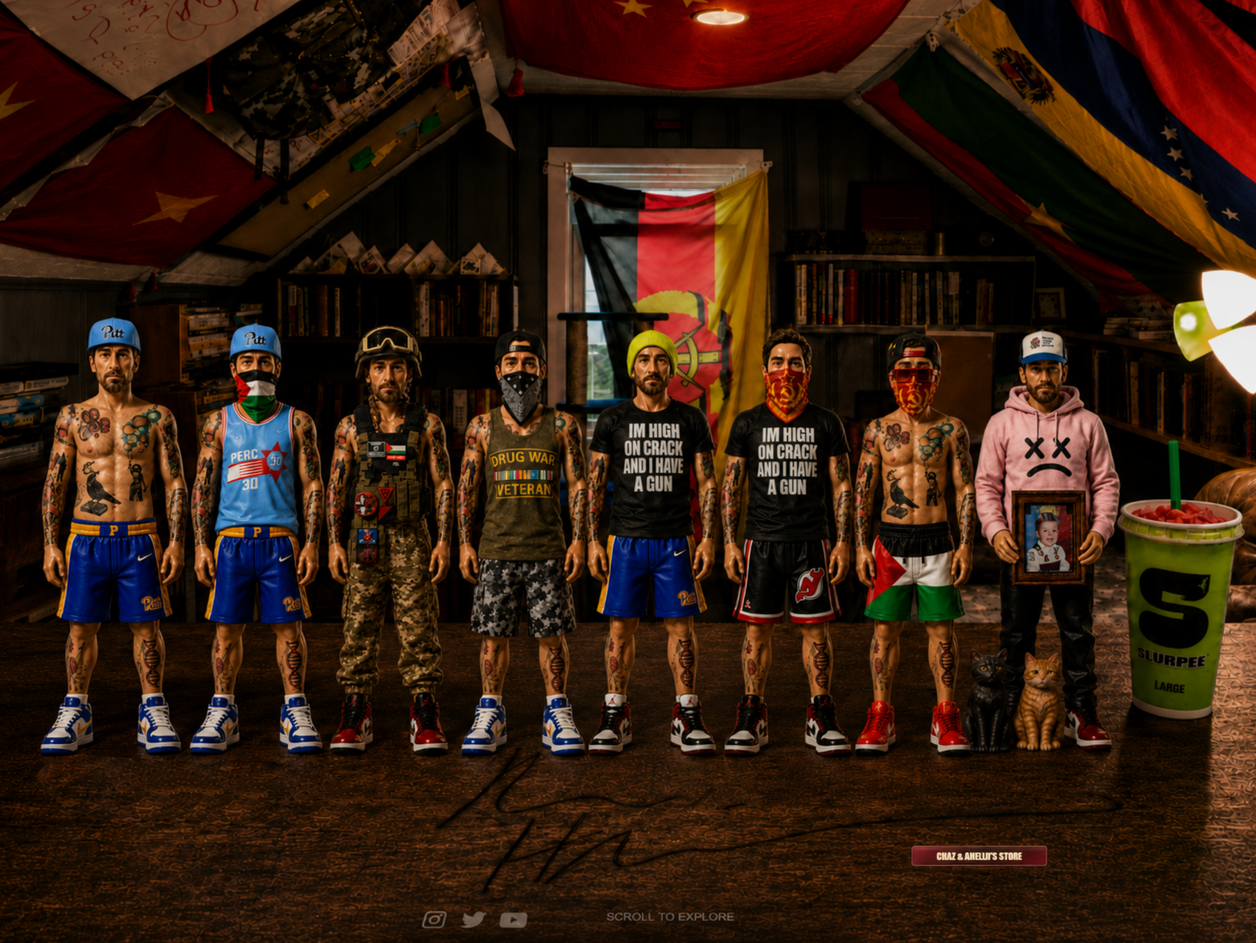
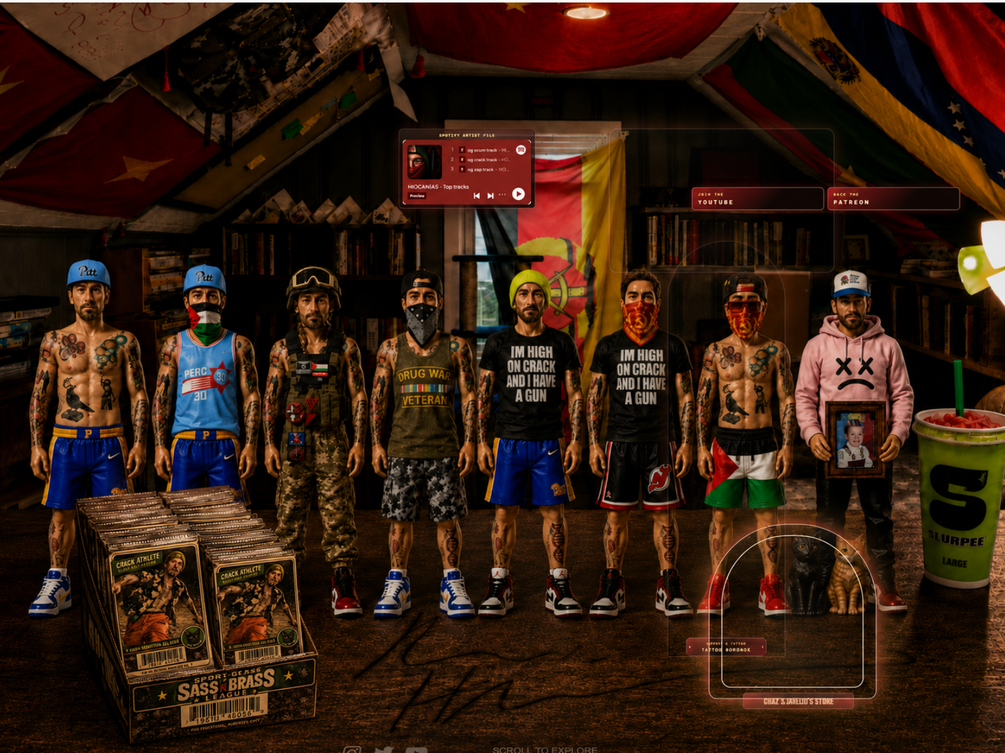
Add Sass n Brass sports card display

diff --git a/index.html b/index.html
@@ -9,7 +9,7 @@
   <link rel="icon" href="data:,">
   <link rel="preload" as="image" href="mothers-day-card.webp" type="image/webp">
   <link rel="preload" as="image" href="trap-pass-run-wave-4.webp" type="image/webp">
-  <link rel="preload" as="image" href="action-figure-room.webp" type="image/webp">
+  <link rel="preload" as="image" href="action-figure-room.webp?v=20260607-sports-cards" type="image/webp">
   <link rel="preload" as="font" href="fonts/impact-label-reversed.ttf" type="font/ttf" crossorigin>
   <style>
     /* Base */
@@ -1368,6 +1368,21 @@
         0 10px 26px rgba(0, 0, 0, 0.58);
     }
 
+    .hotspot.is-sports-card {
+      border-radius: 16px;
+    }
+
+    .hotspot.is-sports-card .figure-plaque {
+      top: -48px;
+      min-width: min(260px, 42vw);
+      opacity: 0.97;
+      box-shadow:
+        inset 0 0 0 1px rgba(0, 0, 0, 0.5),
+        inset 0 1px 0 rgba(255, 238, 202, 0.34),
+        0 0 26px rgba(217, 67, 67, 0.56),
+        0 12px 28px rgba(0, 0, 0, 0.58);
+    }
+
     @media (hover: hover) and (pointer: fine) {
       .hotspot:hover::before {
         border-color: rgba(255, 238, 202, 0.62);
@@ -1489,6 +1504,14 @@
         0 0 0 1px rgba(255, 238, 202, 0.28),
         0 0 26px rgba(217, 67, 67, 0.42),
         0 0 68px rgba(255, 181, 74, 0.28);
+    }
+
+    .hotspot[data-figure="sportsCards"] {
+      --x: 4.6%;
+      --y: 63.5%;
+      --w: 28.7%;
+      --h: 32.6%;
+      border-radius: 18px;
     }
 
     /* Bookshelf close-up hotspot coordinates.
@@ -3536,6 +3559,80 @@
       color: var(--muted);
     }
 
+    .sports-card-panel {
+      width: min(980px, 100%);
+    }
+
+    .sports-card-body {
+      display: grid;
+      gap: 16px;
+    }
+
+    .sports-card-stage {
+      display: grid;
+      grid-template-columns: minmax(0, 1.4fr) minmax(190px, 0.6fr);
+      gap: clamp(14px, 2.8vw, 24px);
+      align-items: stretch;
+    }
+
+    .sports-card-display,
+    .sports-card-detail {
+      margin: 0;
+      overflow: hidden;
+      border: 1px solid rgba(255, 214, 151, 0.32);
+      border-radius: 8px;
+      background:
+        radial-gradient(circle at 50% 0%, rgba(255, 214, 151, 0.1), transparent 38%),
+        #090604;
+      box-shadow:
+        inset 0 0 0 1px rgba(0, 0, 0, 0.44),
+        0 18px 42px rgba(0, 0, 0, 0.42);
+    }
+
+    .sports-card-display img,
+    .sports-card-detail img {
+      display: block;
+      width: 100%;
+      height: 100%;
+      object-fit: contain;
+    }
+
+    .sports-card-detail {
+      display: grid;
+      align-content: center;
+      padding: 10px;
+    }
+
+    .sports-card-detail img {
+      max-height: 380px;
+    }
+
+    .sports-card-copy {
+      display: grid;
+      gap: 8px;
+      padding: 14px;
+      border: 1px dashed rgba(255, 214, 151, 0.25);
+      border-radius: 8px;
+      background: rgba(9, 6, 4, 0.72);
+    }
+
+    .sports-card-copy h3,
+    .sports-card-copy p {
+      margin: 0;
+    }
+
+    .sports-card-copy h3 {
+      color: #ffe5b1;
+      font-family: var(--font-display);
+      font-size: clamp(1.25rem, 4vw, 2rem);
+      line-height: 0.98;
+      text-transform: uppercase;
+    }
+
+    .sports-card-copy p {
+      color: var(--muted);
+    }
+
     /* Toast */
     .toast {
       position: fixed;
@@ -3729,8 +3826,8 @@
       }
 
       .board-frame {
-        width: max(900px, calc(100vh * 1.332224));
-        width: max(900px, calc(100dvh * 1.332224));
+        width: max(900px, calc(100vh * 1.334445));
+        width: max(900px, calc(100dvh * 1.334445));
         min-width: 900px;
         height: 100vh;
         height: 100dvh;
@@ -3984,6 +4081,19 @@
         transform: translateX(-50%) translateY(-4px);
       }
 
+      .hotspot[data-figure="sportsCards"] {
+        --halo-top-mobile: 5%;
+        --halo-right-mobile: 5%;
+        --halo-bottom-mobile: 5%;
+        --halo-left-mobile: 5%;
+      }
+
+      .hotspot.is-sports-card .figure-plaque {
+        top: -42px;
+        min-width: 176px;
+        padding: 7px 10px;
+      }
+
       .hotspot[data-figure="reels"] {
         --halo-top-mobile: 4%;
         --halo-right-mobile: 10%;
@@ -4055,6 +4165,10 @@
       }
 
       .shelf-card-layout {
+        grid-template-columns: 1fr;
+      }
+
+      .sports-card-stage {
         grid-template-columns: 1fr;
       }
 
@@ -4251,8 +4365,8 @@
     <div class="board-wrap">
       <div class="board-frame" id="boardFrame">
         <picture class="board-picture">
-          <source data-srcset="action-figure-room.webp" type="image/webp">
-          <img class="board-image" id="boardImage" data-src="action-figure-room.png" data-candidates="action-figure-room.png,corkboard-desktop.png,corkboard-mobile.png" alt="Action-figure archive room with eight clickable figures, a clickable bookshelf, and Chaz and Amelia near the store area" width="2001" height="1502" loading="lazy" decoding="async" fetchpriority="low">
+          <source data-srcset="action-figure-room.webp?v=20260607-sports-cards" type="image/webp">
+          <img class="board-image" id="boardImage" data-src="action-figure-room.png?v=20260607-sports-cards" data-candidates="action-figure-room.png,corkboard-desktop.png,corkboard-mobile.png" alt="Action-figure archive room with eight clickable figures, a clickable bookshelf, Sass n Brass sports cards, and Chaz and Amelia near the store area" width="1600" height="1199" loading="lazy" decoding="async" fetchpriority="low">
         </picture>
 
         <div class="board-spotify-card" aria-label="Spotify artist player">
@@ -4316,6 +4430,10 @@
           <span class="figure-plaque" aria-hidden="true"><strong>BOOKSHELF ARCHIVE</strong></span>
           <span class="sr-only">Bookshelf archive</span>
         </button>
+        <button class="hotspot is-sports-card" type="button" data-menu-hotspot data-figure="sportsCards" data-action="sportsCards" aria-label="Open Sass n Brass sports cards">
+          <span class="figure-plaque" aria-hidden="true"><small>SPORTS CARDS</small><strong>SASS N BRASS LEAGUE</strong></span>
+          <span class="sr-only">Sass n Brass League sports cards</span>
+        </button>
         <a class="dock-link" data-dock="patreon" href="https://www.patreon.com/IMHIGHONCRACKANDIHAVEAGUN" target="_blank" rel="noopener noreferrer" aria-label="Open Patreon">
           <span class="dock-icon" aria-hidden="true">Patreon</span>
           <span class="dock-plaque" aria-hidden="true"><strong>PATREON CARD</strong></span>
@@ -4350,6 +4468,7 @@
             <button type="button" data-action="writing">Writing Pack</button>
             <button type="button" data-action="teaser">Teaser Insert</button>
             <button type="button" data-action="shop">Store Counter</button>
+            <button type="button" data-action="sportsCards">Sports Cards</button>
             <button type="button" data-action="dirt">Dirt Display</button>
             <button type="button" data-action="who">Tattoo Dropbox</button>
             <button type="button" data-action="social">Link Cards</button>
@@ -4912,6 +5031,35 @@
             </picture>
             <figcaption>Atlas study of a printed volume</figcaption>
           </figure>
+        </div>
+      </div>
+    </div>
+  </section>
+
+  <section class="modal" id="sportsCardsModal" role="dialog" aria-modal="true" aria-labelledby="sportsCardsTitle" hidden>
+    <div class="modal-panel sports-card-panel">
+      <header class="modal-header">
+        <h2 class="modal-title" id="sportsCardsTitle">Sass N Brass Sports Cards</h2>
+        <button class="close-btn" type="button" data-close-modal aria-label="Close">x</button>
+      </header>
+      <div class="modal-body sports-card-body">
+        <div class="sports-card-stage">
+          <figure class="sports-card-display">
+            <picture>
+              <source srcset="sports-cards-display.webp" type="image/webp">
+              <img src="sports-cards-display.png" alt="A tabletop box of Sass n Brass League Crack Athlete sports cards" width="465" height="427" loading="lazy" decoding="async">
+            </picture>
+          </figure>
+          <figure class="sports-card-detail">
+            <picture>
+              <source srcset="sports-card-crack-athlete.webp" type="image/webp">
+              <img src="sports-card-crack-athlete.png" alt="Close-up of a Crack Athlete Sass n Brass League card" width="225" height="256" loading="lazy" decoding="async">
+            </picture>
+          </figure>
+        </div>
+        <div class="sports-card-copy">
+          <h3>Sport Glass Sass N Brass League</h3>
+          <p>Crack Athlete card stack from the room display. Card drops and collector inserts live here as the waves roll forward.</p>
         </div>
       </div>
     </div>
@@ -5486,6 +5634,7 @@
         social: () => openModal("socialModal"),
         shop: () => openModal("shopModal", { focusSelector: "[data-store-enter]" }),
         tipJar: () => openModal("tipJarModal"),
+        sportsCards: () => openModal("sportsCardsModal"),
         dirt: () => openModal("dirtShowModal"),
         who: () => openModal("whoModal"),
         bookshelf: () => openBookshelf(),
